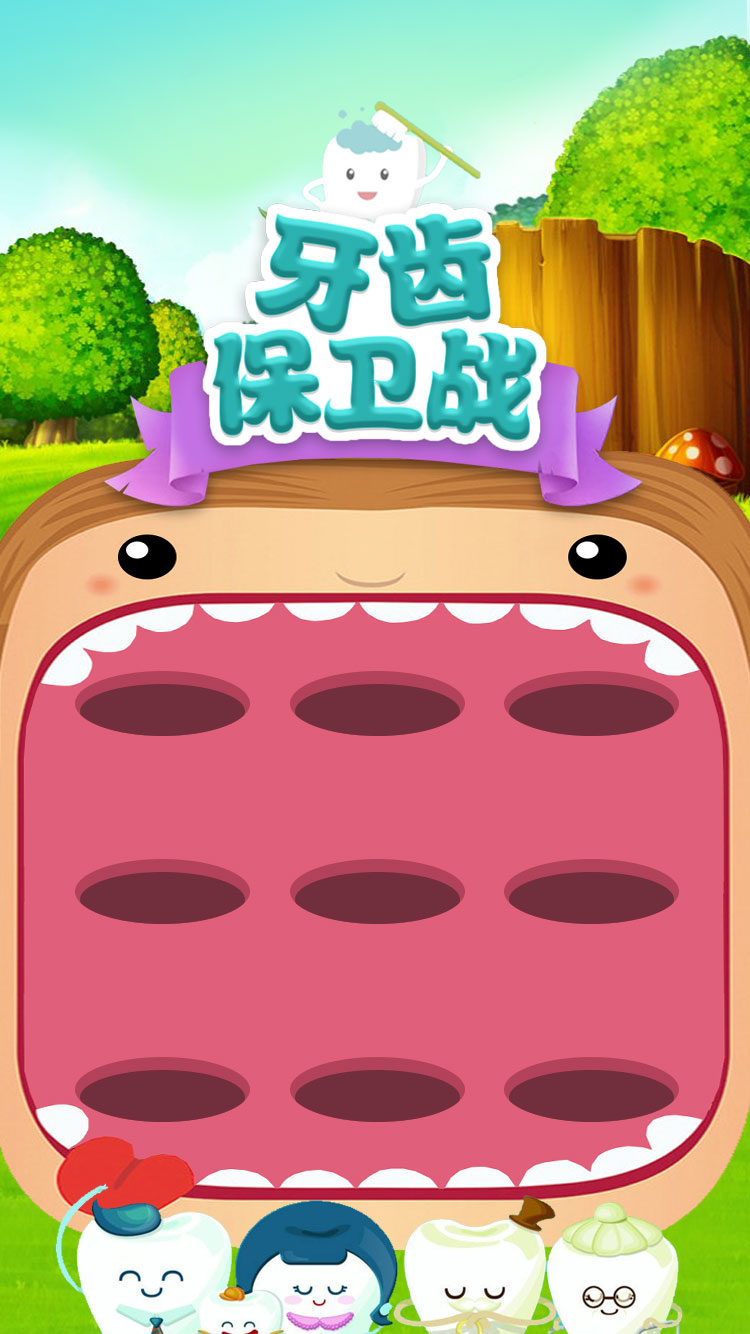
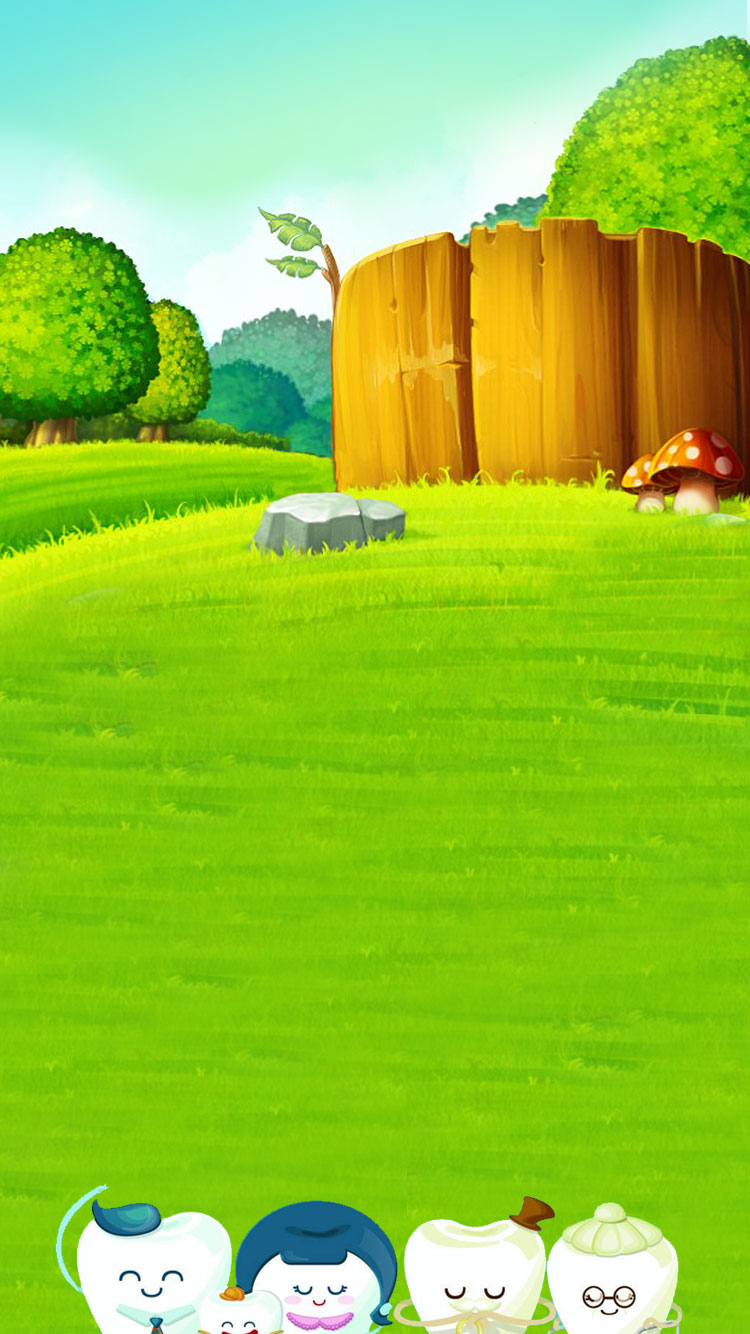
change animation of mouth

diff --git a/css/index.css b/css/index.css
@@ -224,6 +224,7 @@ body{
   background: #64d8ea url(../img/playBg.jpg) no-repeat top center;
   background-size: 100% 13.34rem; 
   position: relative;
+  overflow: hidden;
 }
 
 .totalScore {
@@ -255,6 +256,40 @@ body{
   position: absolute;
   top: 0;
   right: -0.44rem;
+}
+.mouthWrap {
+  width: 7.5rem;
+  height: 8rem;
+  position: absolute;
+  background: url(../img/mouth4.png) no-repeat center;
+  background-size: 100% 100%;
+  top: 4.48rem;
+  /* overflow: hidden; */
+  animation: mouthGif 0.8s ease 1;
+}
+.titleBanner {
+  width: 5.56rem;
+  height: 4.09rem;
+  position: absolute;
+  top: 1rem;
+  left: 1.05rem;
+  z-index: 9998;
+}
+.footerImg {
+  width: 7.5rem;
+  height: 1.49rem;
+  position: absolute;
+  bottom: 0;
+}
+@keyframes mouthGif{
+  0%  {background:url(../img/mouth1.png) no-repeat center;background-size: 100% 100%}
+	25%  {background:url(../img/mouth1.png) no-repeat center;background-size: 100% 100%}
+	50% {background:url(../img/mouth2.png) no-repeat center;background-size: 100% 100%}
+	75% {background:url(../img/mouth3.png) no-repeat center;background-size: 100% 100%}
+	100% {background:url(../img/mouth4.png) no-repeat center;background-size: 100% 100%}
+}
+.mouthWrap div{
+  display: none;
 }
 .teethList {
   background: url(../img/teethBg.png) no-repeat center;
@@ -292,48 +327,48 @@ body{
 .hole0 {
   position: absolute;
   left: .74rem;
-  top: 5.70rem;
+  top: 1.2rem;
 }
 .hole1 {
   position: absolute;
   left: 2.90rem;
-  top: 5.70rem;
+  top: 1.2rem;
 }
 .hole2 {
   position: absolute;
   left: 5.02rem;
-  top: 5.70rem;
+  top: 1.2rem;
 }
 .hole3 {
   position: absolute;
   left: .74rem;
-  top: 7.6rem;
+  top: 3.10rem;
 }
 .hole4 {
   position: absolute;
   left: 2.90rem;
-  top: 7.60rem;
+  top: 3.10rem;
 }
 .hole5 {
   position: absolute;
   left: 5.02rem;
-  top: 7.60rem;
+  top: 3.10rem;
 }
 
 .hole6 {
   position: absolute;
   left: .74rem;
-  top: 9.60rem;
+  top: 5rem;
 }
 .hole7 {
   position: absolute;
   left: 2.90rem;
-  top: 9.60rem;
+  top: 5rem;
 }
 .hole8 {
   position: absolute;
   left: 5.02rem;
-  top: 9.60rem;
+  top: 5rem;
 }
 .endGame {
   width: 5.81rem;
@@ -394,7 +429,7 @@ body{
   height: 1.49rem;
   position: absolute;
   left: 50%;
-  top: 4.5rem;
+  top: 4.7rem;
   margin-left: -0.65rem;
   z-index: 9998;
 }
@@ -430,7 +465,8 @@ body{
   display: inline-block;
   padding: 0.1rem 0.2rem;
   margin-left: 0.3rem;
- 
+  position: absolute;
+  z-index: 9999;
 }
 
 .audioBtn {
@@ -536,7 +572,7 @@ body{
     animation-timing-function: ease-in;
   } 
   to {
-    transform: translate(-1.9rem,-5.5rem);
+    transform: translate(-1.9rem,-8.5rem);
     animation-timing-function: ease-in;
   }
 }

diff --git a/js/game.js b/js/game.js
@@ -84,9 +84,9 @@ game.prototype = {
       $('.j-good').attr('src', 'img/goodLeve2.png')
     } else if (badLength > 7) {
       $('.j-good').attr('src', 'img/goodLeve3.png')
-    } else if (badLength < 5) {
+    } else if ( badLength >=2 && badLength < 5) {
       $('.j-good').attr('src', 'img/monster0.png')
-    }
+    } 
   },
   clickEvent: function () {
     var _this = this    
@@ -102,10 +102,15 @@ game.prototype = {
         that.animate({"margin-top":"2rem"},function () {
           that.remove() 
           _this.notEnoughtTime()
+          var badLength = $('.j-bad').length
+          if (badLength <=1) {
+            _this.showMouse()
+          }
         })
       })      
-      _this.scoreCount(that) 
+      _this.scoreCount(that)      
     })
+    
   },
   /**
    * 计算分数
@@ -142,7 +147,7 @@ game.prototype = {
       var curHole = string.replace(/[^\d]/g,"")
       var _score = $('.score')
       _score.addClass('hole' + curHole)
-      _score.animate({'left': '1.602rem', 'top': '.25rem', 'opacity': '0'}, 800, function() {
+      _score.animate({'left': '1rem', 'top': '-4.5rem', 'opacity': '0'}, 800, function() {
         _this.score += score
         $('.j-numTotal').text(_this.score)
       })
@@ -175,7 +180,12 @@ game.prototype = {
     var _this = this;   
     _this.start = true;
     _this.audioEvent()
-    _this.showMouse() 
+    _this.showMouse()    
+    var mouthWrap = document.getElementById("j-mouthWrap");
+    // 动画结束时事件
+    mouthWrap.addEventListener("webkitAnimationEnd", function() {
+      $('#j-mouthWrap div').show()
+    })
     _this.interId = setInterval(function() {_this.showMouse()}, _this.timeSpeed)
     $('.j-numTotal').text(_this.score)
   },
@@ -190,12 +200,17 @@ game.prototype = {
   replayGame: function () {
     var _this = this
     $('.j-replayBtn').click(function () {
+      var mouthWrap = $('#j-mouthWrap')
       $('.j-endGame').hide()
       $('.j-numTotal').text('0')
+      mouthWrap.removeClass('mouthWrap')
+      mouthWrap.find('div').hide()
       _this.start = false
       _this.score = 0
       $('.j-toothItem').html('<div class="teeth"></div><div class="teeth"></div><div class="teeth"></div>')
       _this.startGame()
+      $(".j-toolBox").removeAttr("style");
+      mouthWrap.addClass('mouthWrap')      
     })
   },
   audioEvent: function () {

diff --git a/index.html b/index.html
@@ -11,7 +11,7 @@
 		<meta name="apple-mobile-web-app-status-bar-style" content="white">
 		<meta name="viewport" content="width=device-width,initial-scale=1,minimum-scale=1,maximum-scale=1,user-scalable=0">
 		<title>牙齿保卫战</title>
-		<link rel="stylesheet" href="css/index.css?t=2345">  
+		<link rel="stylesheet" href="css/index.css?t=238945">  
 		<script type="text/javascript" src="http://res.wx.qq.com/open/js/jweixin-1.0.0.js"></script>
 	</head>
 	<body> 
@@ -134,13 +134,16 @@
 				<div class="teeth"></div>
 				<div class="teeth"></div>
 			</div>
-			
-				<div class="toolBox j-toolBox">
-						<img src="img/blueTool.png" class="img">						
-				</div>				
+			<div class="titleBanner">
+				<img src="img/titleBanner.png" class="img">
+			</div>
+			<div class="toolBox j-toolBox">
+				<img src="img/blueTool.png" class="img">						
+		 </div>	
+			<div class="mouthWrap" id='j-mouthWrap'>		
 				<div class="hole0 hole">
 					<div class="cell0 cell">
-					</div>					
+					</div>				
 				</div>
 				<div class="hole1 hole">
 					<div class="cell1 cell"></div>
@@ -167,8 +170,7 @@
 				<div class="hole8 hole">
 					<div class="cell8 cell"></div>
 				</div>
-
-			<!-- </div> -->
+			</div>
 			<div class="rule j-endGame" style="display:none">
 				<div class="endGame">
 					<img src="img/endGame.png" class="img" >
@@ -184,5 +186,5 @@
 		</audio>
 	</body>
 	<script src="./js/jquery.js"></script>
-	<script src="./js/game.js?t=239007"></script> 
+	<script src="./js/game.js?t=237"></script> 
 </html>
